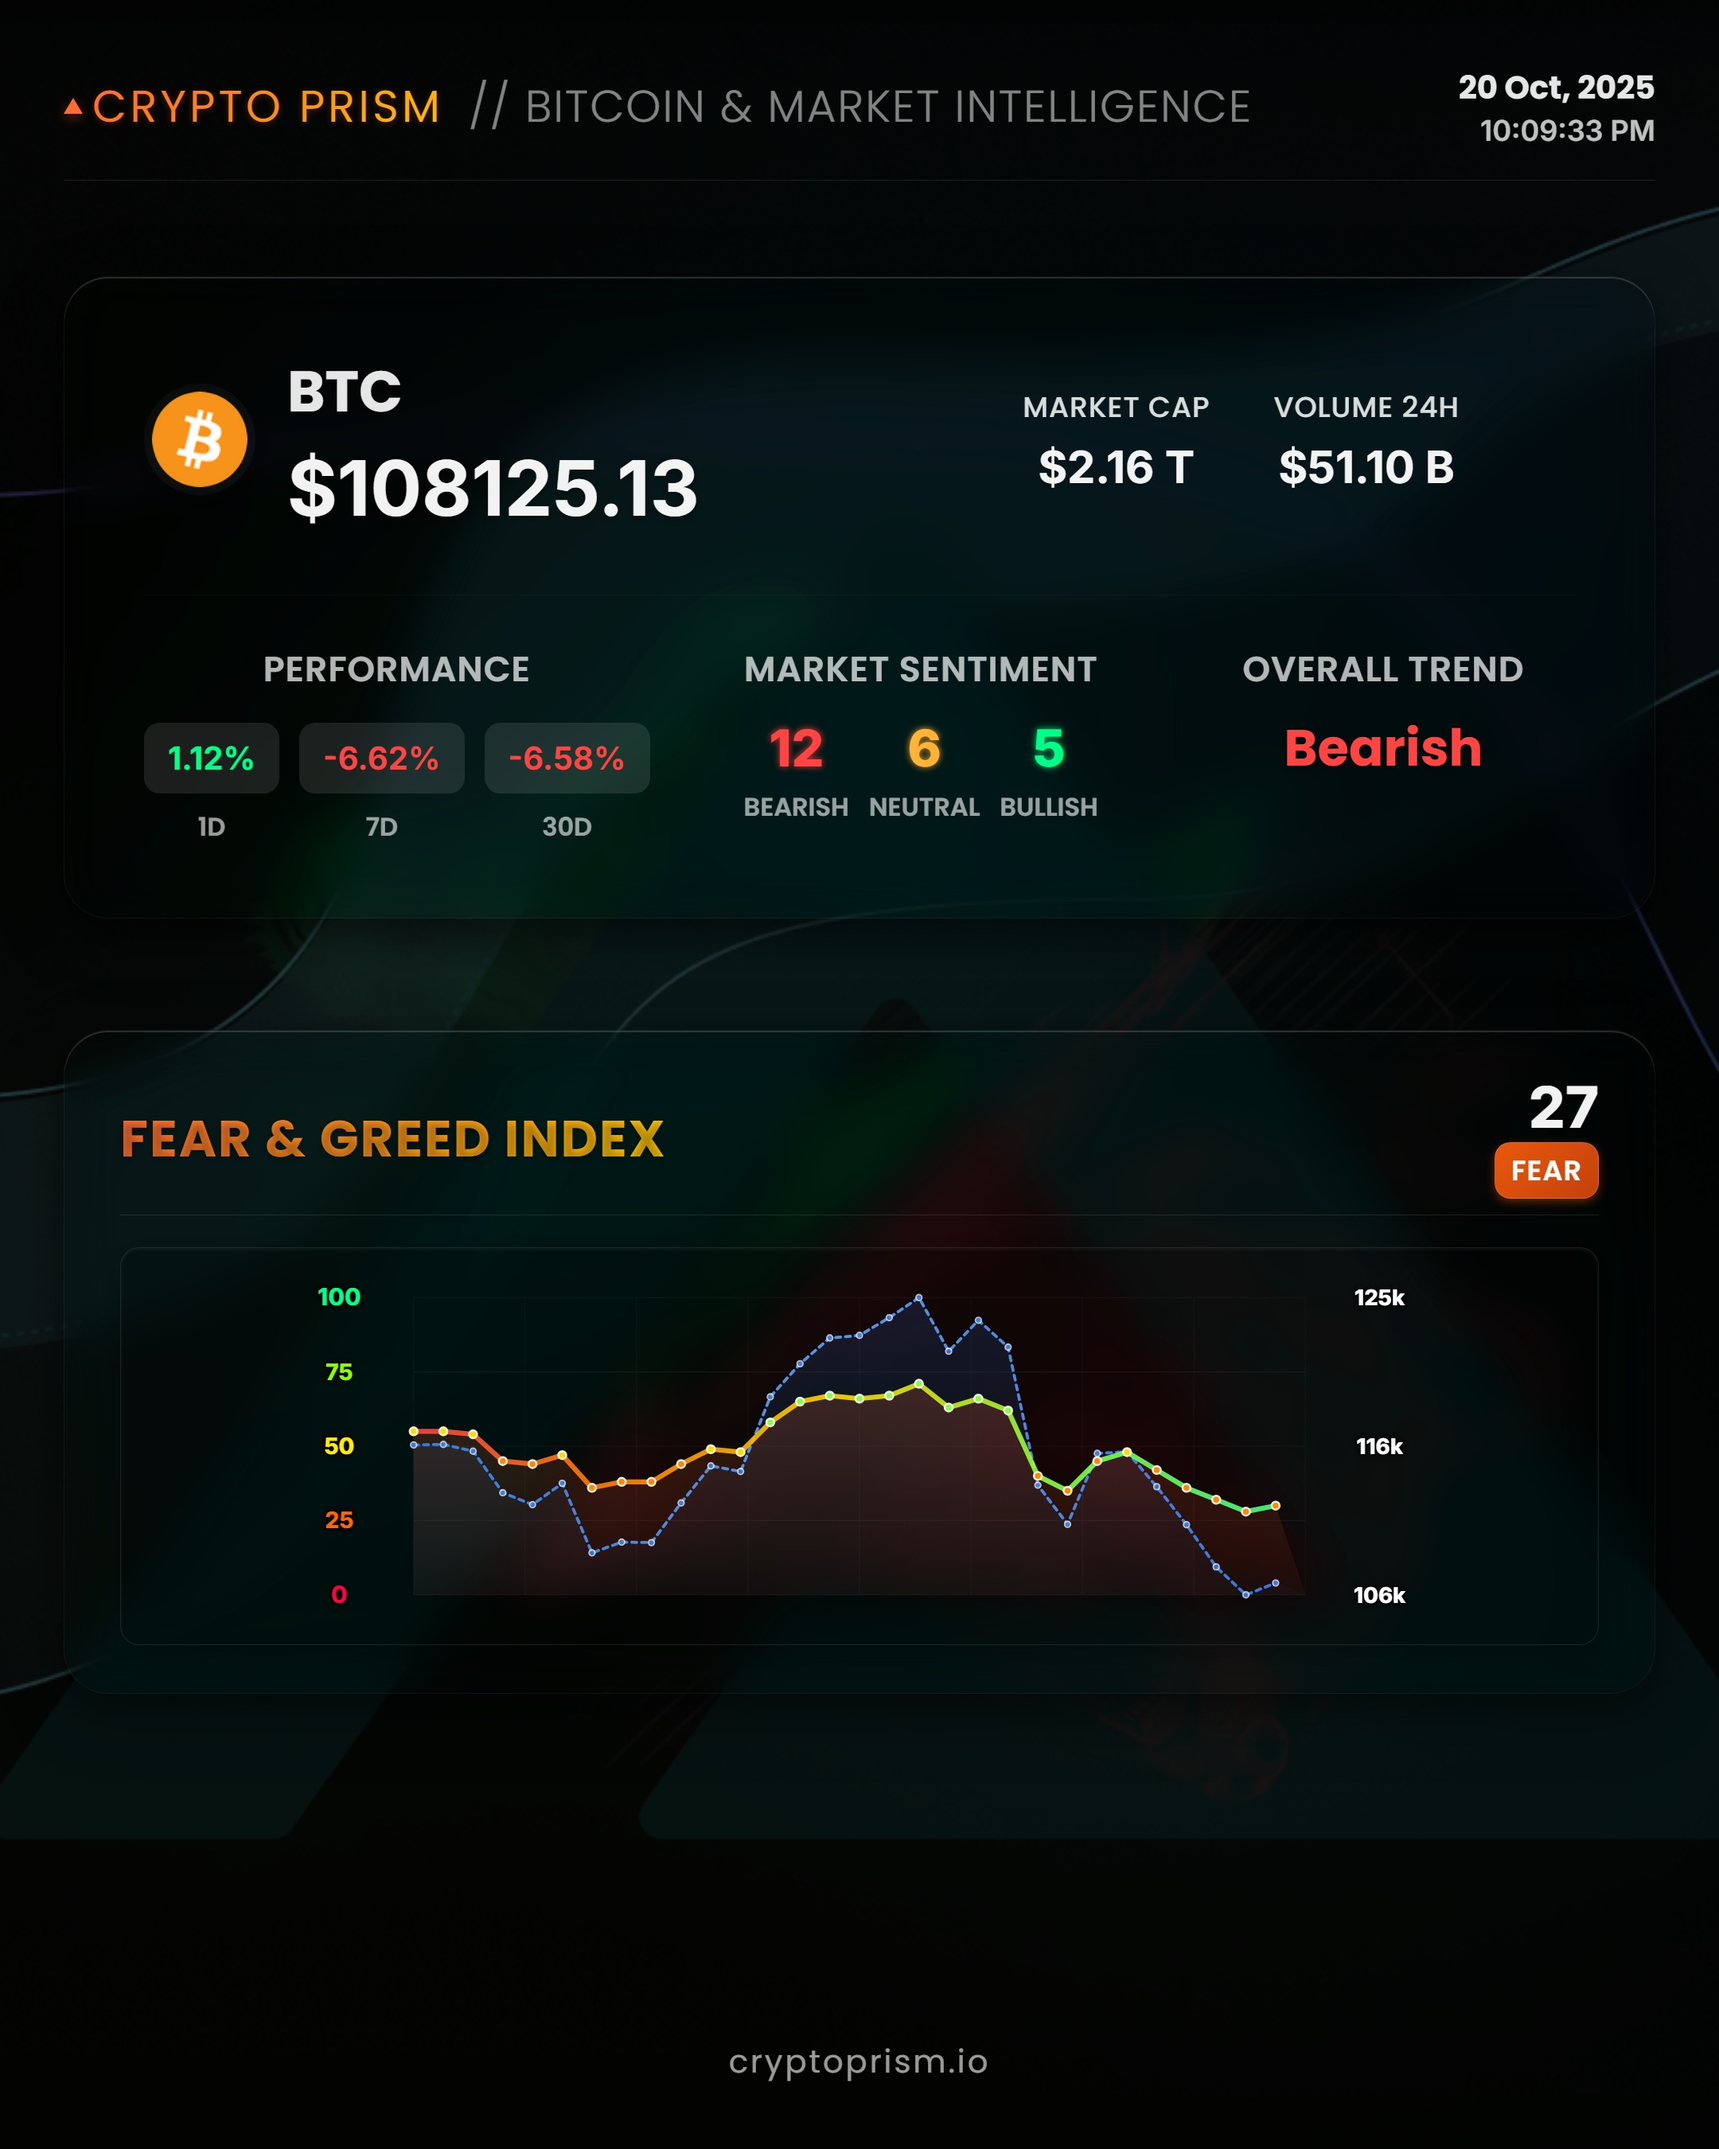
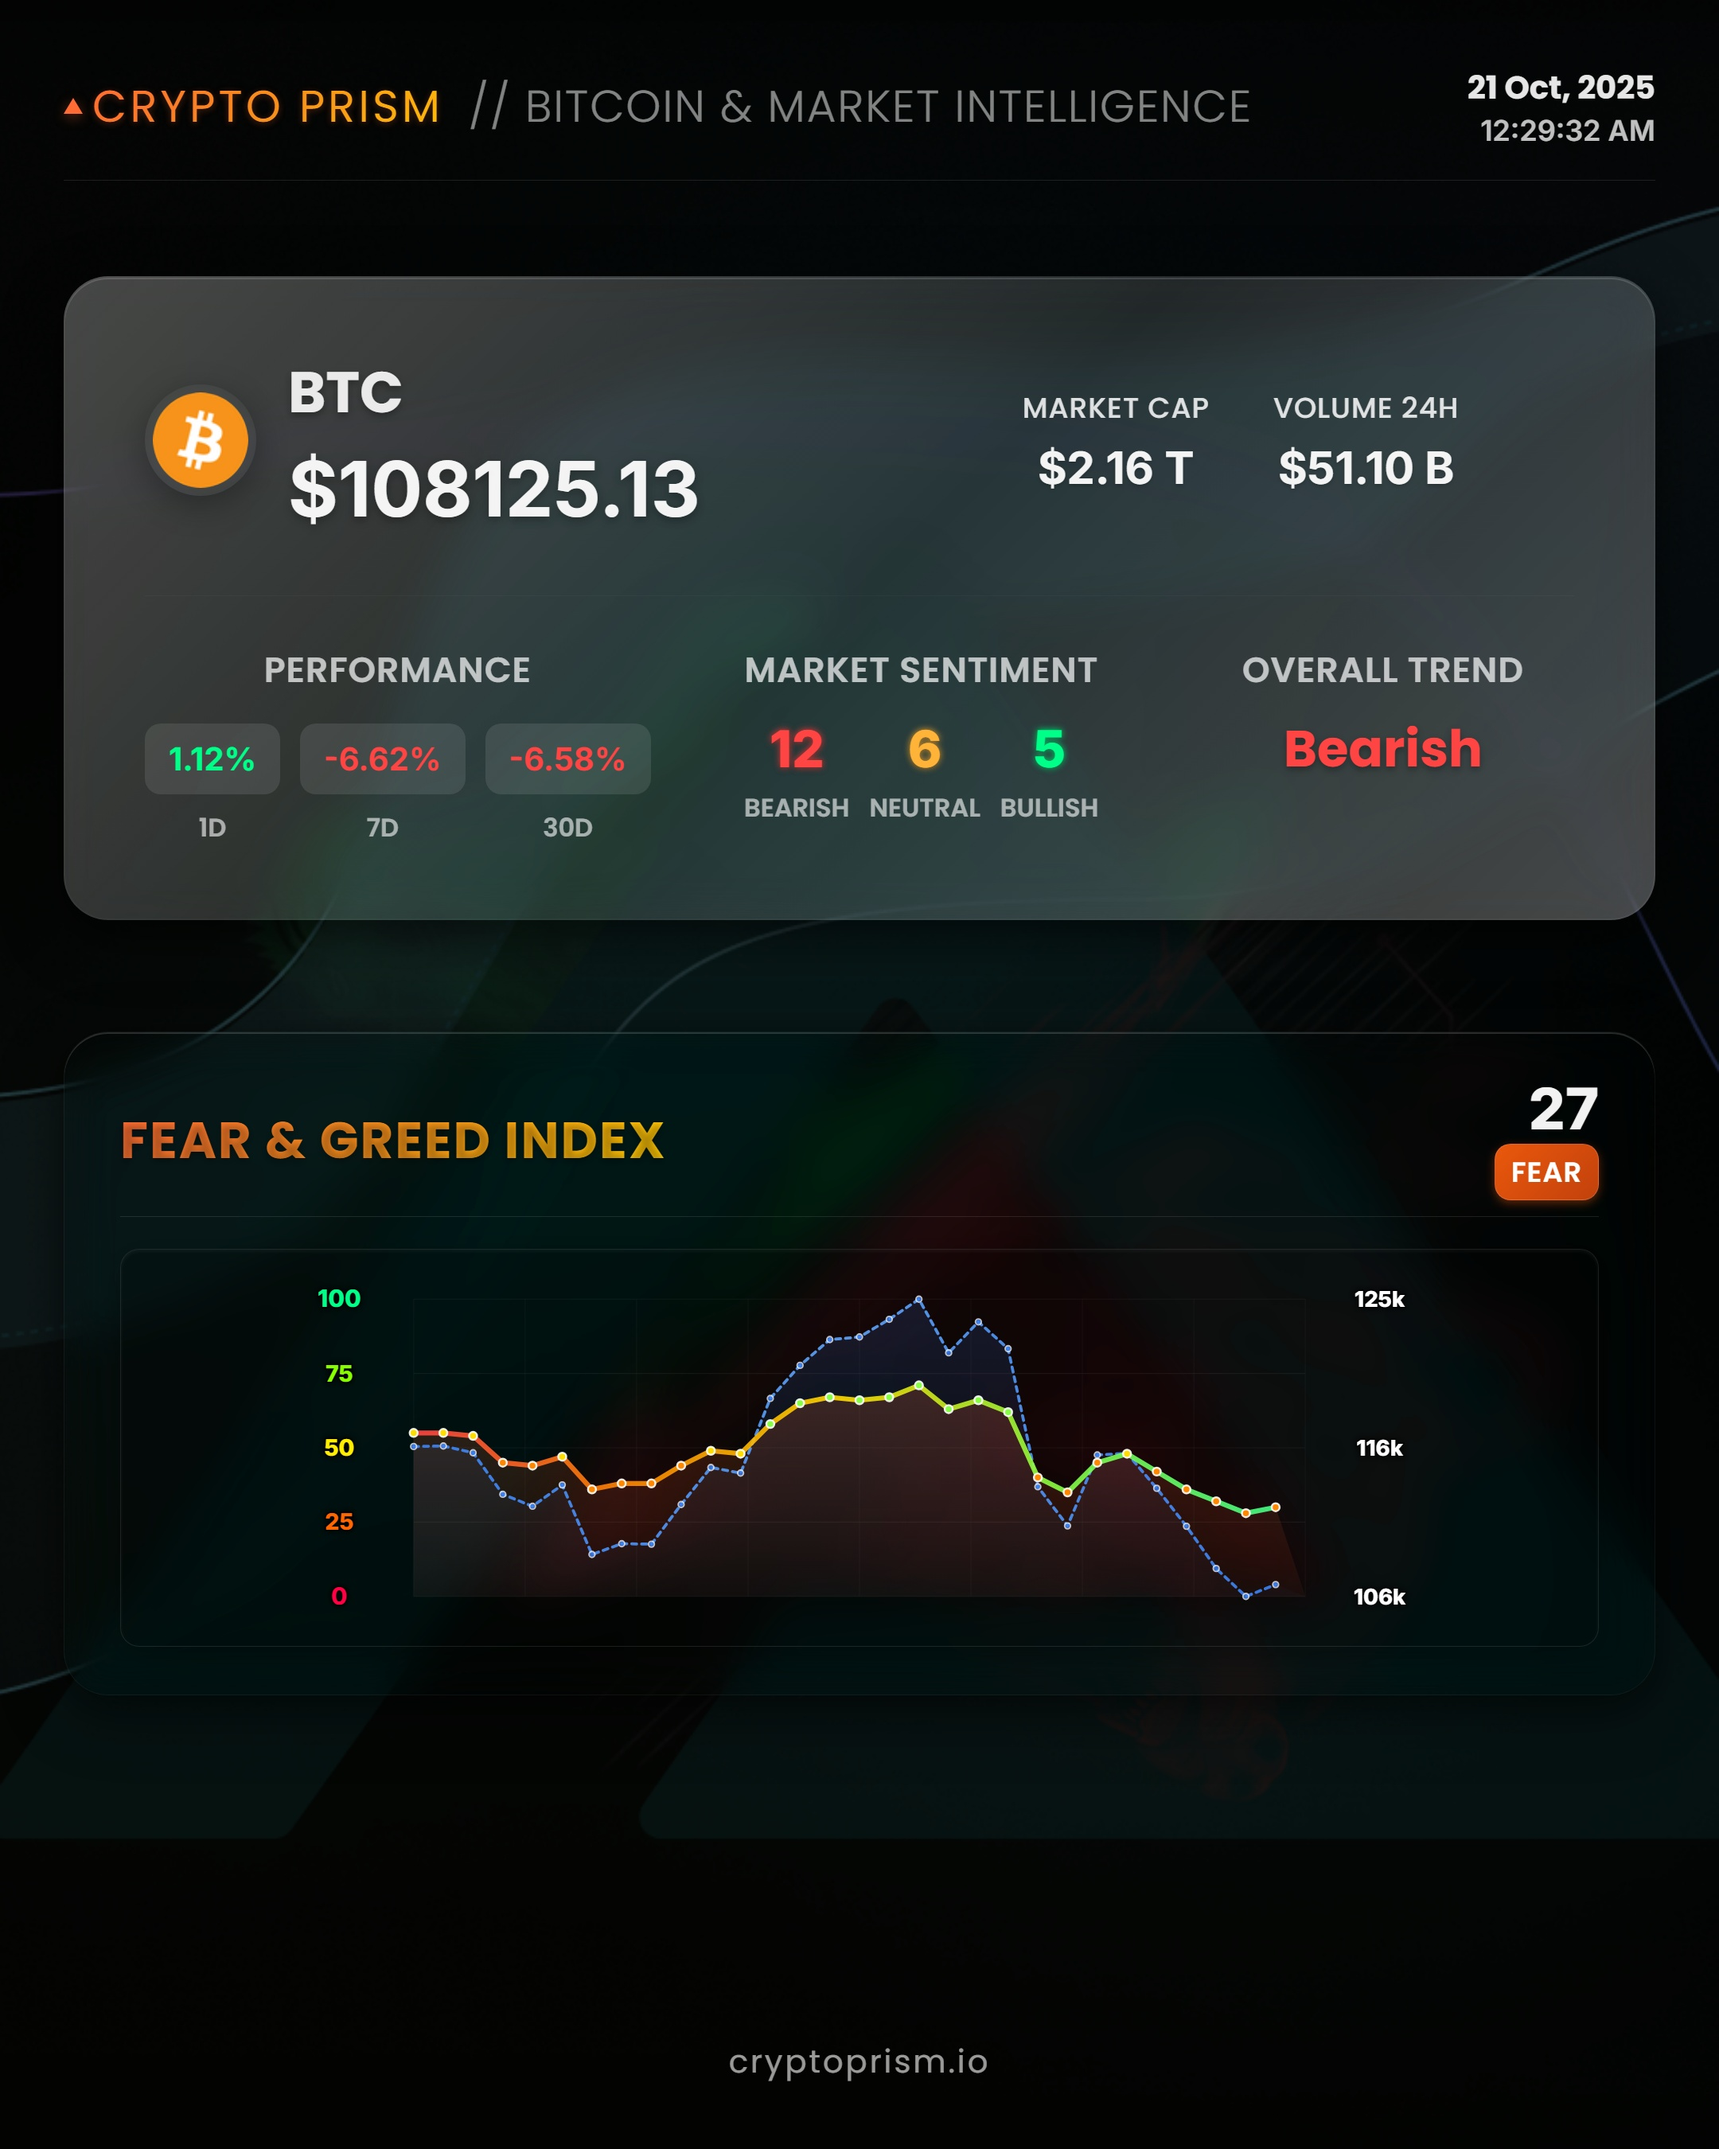
feat: v2.3.4 - Enhanced card borders & vertical content centering
2-phase visual enhancement for content cards (slides 04, 06, 07, 09, 10, 12, 13):

PHASE 1 - Gradient White Borders:
- Replaced subtle 0.5px border with 2px gradient border (4x thicker)
- Gradient: rgba(255,255,255,0.3) → 0.15 → 0.3 (shimmer effect)
- Dual-background technique: padding-box + border-box
- Updated: style1.css, style2.css, style3.css, style4.css, style6.css
- Affects: .coin-card, .btc-dashboard-card

PHASE 2 - Vertical Content Centering:
- Added justify-content: center to .main-container
- Eliminates awkward empty space at bottom of slides
- Content now perfectly centered vertically
- Updated same 5 CSS files

Visual Impact:
- Borders now clearly visible (was almost invisible at 5% opacity)
- Elegant gradient shimmer complements glassmorphism
- Balanced layout with vertically centered content
- Professional polish with better card definition

Production: https://www.instagram.com/p/DQCsKE1gXL0/
Affected: Slides 04, 06-07, 09-10, 12-13 (7 slides)

🤖 Generated with [Claude Code](https://claude.com/claude-code)

diff --git a/base_templates/style1.css b/base_templates/style1.css
@@ -56,6 +56,7 @@ body::before {
     padding: 60px;
     display: flex;
     flex-direction: column;
+    justify-content: center;
     gap: 50px;
     overflow: hidden;
     box-sizing: border-box;
@@ -391,11 +392,17 @@ body::before {
 
 /* 💎 Individual Coin Cards - Template 2 Style - Bitcoin Intelligence Glassmorphism */
 .coin-card {
-    background: rgba(0, 0, 0, 0.1);
+    border-radius: 56px;
+    border: 2px solid transparent;
+    background:
+        linear-gradient(rgba(0, 0, 0, 0.1), rgba(0, 0, 0, 0.1)) padding-box,
+        linear-gradient(135deg,
+            rgba(255, 255, 255, 0.3) 0%,
+            rgba(255, 255, 255, 0.15) 50%,
+            rgba(255, 255, 255, 0.3) 100%
+        ) border-box;
     backdrop-filter: blur(28px) saturate(180%);
     -webkit-backdrop-filter: blur(28px) saturate(180%);
-    border-radius: 56px;
-    border: 0.5px solid rgba(255, 255, 255, 0.05);
 
     box-shadow:
         0 24px 80px rgba(0, 0, 0, 0.4),

diff --git a/base_templates/style2.css b/base_templates/style2.css
@@ -56,6 +56,7 @@ body::before {
     padding: 60px;
     display: flex;
     flex-direction: column;
+    justify-content: center;
     gap: 50px;
     overflow: hidden;
     box-sizing: border-box;
@@ -391,11 +392,17 @@ body::before {
 
 /* 💎 Individual Coin Cards - Template 2 Style - Bitcoin Intelligence Glassmorphism */
 .coin-card {
-    background: rgba(0, 0, 0, 0.1);
+    border-radius: 56px;
+    border: 2px solid transparent;
+    background:
+        linear-gradient(rgba(0, 0, 0, 0.1), rgba(0, 0, 0, 0.1)) padding-box,
+        linear-gradient(135deg,
+            rgba(255, 255, 255, 0.3) 0%,
+            rgba(255, 255, 255, 0.15) 50%,
+            rgba(255, 255, 255, 0.3) 100%
+        ) border-box;
     backdrop-filter: blur(28px) saturate(180%);
     -webkit-backdrop-filter: blur(28px) saturate(180%);
-    border-radius: 56px;
-    border: 0.5px solid rgba(255, 255, 255, 0.05);
 
     box-shadow:
         0 24px 80px rgba(0, 0, 0, 0.4),

diff --git a/output_html/style1.css b/output_html/style1.css
@@ -56,6 +56,7 @@ body::before {
     padding: 60px;
     display: flex;
     flex-direction: column;
+    justify-content: center;
     gap: 50px;
     overflow: hidden;
     box-sizing: border-box;
@@ -391,11 +392,17 @@ body::before {
 
 /* 💎 Individual Coin Cards - Template 2 Style - Bitcoin Intelligence Glassmorphism */
 .coin-card {
-    background: rgba(0, 0, 0, 0.1);
+    border-radius: 56px;
+    border: 2px solid transparent;
+    background:
+        linear-gradient(rgba(0, 0, 0, 0.1), rgba(0, 0, 0, 0.1)) padding-box,
+        linear-gradient(135deg,
+            rgba(255, 255, 255, 0.3) 0%,
+            rgba(255, 255, 255, 0.15) 50%,
+            rgba(255, 255, 255, 0.3) 100%
+        ) border-box;
     backdrop-filter: blur(28px) saturate(180%);
     -webkit-backdrop-filter: blur(28px) saturate(180%);
-    border-radius: 56px;
-    border: 0.5px solid rgba(255, 255, 255, 0.05);
 
     box-shadow:
         0 24px 80px rgba(0, 0, 0, 0.4),

diff --git a/output_html/style2.css b/output_html/style2.css
@@ -56,6 +56,7 @@ body::before {
     padding: 60px;
     display: flex;
     flex-direction: column;
+    justify-content: center;
     gap: 50px;
     overflow: hidden;
     box-sizing: border-box;
@@ -391,11 +392,17 @@ body::before {
 
 /* 💎 Individual Coin Cards - Template 2 Style - Bitcoin Intelligence Glassmorphism */
 .coin-card {
-    background: rgba(0, 0, 0, 0.1);
+    border-radius: 56px;
+    border: 2px solid transparent;
+    background:
+        linear-gradient(rgba(0, 0, 0, 0.1), rgba(0, 0, 0, 0.1)) padding-box,
+        linear-gradient(135deg,
+            rgba(255, 255, 255, 0.3) 0%,
+            rgba(255, 255, 255, 0.15) 50%,
+            rgba(255, 255, 255, 0.3) 100%
+        ) border-box;
     backdrop-filter: blur(28px) saturate(180%);
     -webkit-backdrop-filter: blur(28px) saturate(180%);
-    border-radius: 56px;
-    border: 0.5px solid rgba(255, 255, 255, 0.05);
 
     box-shadow:
         0 24px 80px rgba(0, 0, 0, 0.4),

diff --git a/base_templates/style3.css b/base_templates/style3.css
@@ -55,6 +55,7 @@ body::before {
     padding: 60px;
     display: flex;
     flex-direction: column;
+    justify-content: center;
     gap: 50px;
     overflow: hidden;
     box-sizing: border-box;
@@ -409,11 +410,17 @@ body::before {
 
 /* 💎 Enhanced Coin Cards for Template 3 - Bitcoin Intelligence Glassmorphism */
 .coin-card {
-    background: rgba(0, 0, 0, 0.1);
+    border-radius: 56px;
+    border: 2px solid transparent;
+    background:
+        linear-gradient(rgba(0, 0, 0, 0.1), rgba(0, 0, 0, 0.1)) padding-box,
+        linear-gradient(135deg,
+            rgba(255, 255, 255, 0.3) 0%,
+            rgba(255, 255, 255, 0.15) 50%,
+            rgba(255, 255, 255, 0.3) 100%
+        ) border-box;
     backdrop-filter: blur(28px) saturate(180%);
     -webkit-backdrop-filter: blur(28px) saturate(180%);
-    border-radius: 56px;
-    border: 0.5px solid rgba(255, 255, 255, 0.05);
 
     box-shadow:
         0 24px 80px rgba(0, 0, 0, 0.4),

diff --git a/output_html/style3.css b/output_html/style3.css
@@ -55,6 +55,7 @@ body::before {
     padding: 60px;
     display: flex;
     flex-direction: column;
+    justify-content: center;
     gap: 50px;
     overflow: hidden;
     box-sizing: border-box;
@@ -409,11 +410,17 @@ body::before {
 
 /* 💎 Enhanced Coin Cards for Template 3 - Bitcoin Intelligence Glassmorphism */
 .coin-card {
-    background: rgba(0, 0, 0, 0.1);
+    border-radius: 56px;
+    border: 2px solid transparent;
+    background:
+        linear-gradient(rgba(0, 0, 0, 0.1), rgba(0, 0, 0, 0.1)) padding-box,
+        linear-gradient(135deg,
+            rgba(255, 255, 255, 0.3) 0%,
+            rgba(255, 255, 255, 0.15) 50%,
+            rgba(255, 255, 255, 0.3) 100%
+        ) border-box;
     backdrop-filter: blur(28px) saturate(180%);
     -webkit-backdrop-filter: blur(28px) saturate(180%);
-    border-radius: 56px;
-    border: 0.5px solid rgba(255, 255, 255, 0.05);
 
     box-shadow:
         0 24px 80px rgba(0, 0, 0, 0.4),

diff --git a/base_templates/style4.css b/base_templates/style4.css
@@ -55,6 +55,7 @@ body::before {
     padding: 60px;
     display: flex;
     flex-direction: column;
+    justify-content: center;
     gap: 50px;
     overflow: hidden;
     box-sizing: border-box;
@@ -376,11 +377,17 @@ body::before {
 
 /* 🏆 Coin Cards - Bitcoin Intelligence Glassmorphism */
 .coin-card {
-    background: rgba(0, 0, 0, 0.1);
+    border-radius: 56px;
+    border: 2px solid transparent;
+    background:
+        linear-gradient(rgba(0, 0, 0, 0.1), rgba(0, 0, 0, 0.1)) padding-box,
+        linear-gradient(135deg,
+            rgba(255, 255, 255, 0.3) 0%,
+            rgba(255, 255, 255, 0.15) 50%,
+            rgba(255, 255, 255, 0.3) 100%
+        ) border-box;
     backdrop-filter: blur(28px) saturate(180%);
     -webkit-backdrop-filter: blur(28px) saturate(180%);
-    border-radius: 56px;
-    border: 0.5px solid rgba(255, 255, 255, 0.05);
 
     box-shadow:
         0 24px 80px rgba(0, 0, 0, 0.4),

diff --git a/output_html/style4.css b/output_html/style4.css
@@ -55,6 +55,7 @@ body::before {
     padding: 60px;
     display: flex;
     flex-direction: column;
+    justify-content: center;
     gap: 50px;
     overflow: hidden;
     box-sizing: border-box;
@@ -376,11 +377,17 @@ body::before {
 
 /* 🏆 Coin Cards - Bitcoin Intelligence Glassmorphism */
 .coin-card {
-    background: rgba(0, 0, 0, 0.1);
+    border-radius: 56px;
+    border: 2px solid transparent;
+    background:
+        linear-gradient(rgba(0, 0, 0, 0.1), rgba(0, 0, 0, 0.1)) padding-box,
+        linear-gradient(135deg,
+            rgba(255, 255, 255, 0.3) 0%,
+            rgba(255, 255, 255, 0.15) 50%,
+            rgba(255, 255, 255, 0.3) 100%
+        ) border-box;
     backdrop-filter: blur(28px) saturate(180%);
     -webkit-backdrop-filter: blur(28px) saturate(180%);
-    border-radius: 56px;
-    border: 0.5px solid rgba(255, 255, 255, 0.05);
 
     box-shadow:
         0 24px 80px rgba(0, 0, 0, 0.4),

diff --git a/base_templates/style6.css b/base_templates/style6.css
@@ -54,6 +54,7 @@ body::before {
     padding: 80px;
     display: flex;
     flex-direction: column;
+    justify-content: center;
     gap: 100px;
     overflow: hidden;
     box-sizing: border-box;
@@ -63,11 +64,17 @@ body::before {
 
 /* 🚀 Bitcoin Dashboard Card */
 .btc-dashboard-card {
-    background: rgba(0, 0, 0, 0.1);
+    border-radius: 56px;
+    border: 2px solid transparent;
+    background:
+        linear-gradient(rgba(0, 0, 0, 0.1), rgba(0, 0, 0, 0.1)) padding-box,
+        linear-gradient(135deg,
+            rgba(255, 255, 255, 0.3) 0%,
+            rgba(255, 255, 255, 0.15) 50%,
+            rgba(255, 255, 255, 0.3) 100%
+        ) border-box;
     backdrop-filter: blur(28px) saturate(180%);
     -webkit-backdrop-filter: blur(28px) saturate(180%);
-    border-radius: 56px;
-    border: 0.5px solid rgba(255, 255, 255, 0.05);
 
     box-shadow:
         0 24px 80px rgba(0, 0, 0, 0.4),

diff --git a/output_html/style6.css b/output_html/style6.css
@@ -54,6 +54,7 @@ body::before {
     padding: 80px;
     display: flex;
     flex-direction: column;
+    justify-content: center;
     gap: 100px;
     overflow: hidden;
     box-sizing: border-box;
@@ -63,11 +64,17 @@ body::before {
 
 /* 🚀 Bitcoin Dashboard Card */
 .btc-dashboard-card {
-    background: rgba(0, 0, 0, 0.1);
+    border-radius: 56px;
+    border: 2px solid transparent;
+    background:
+        linear-gradient(rgba(0, 0, 0, 0.1), rgba(0, 0, 0, 0.1)) padding-box,
+        linear-gradient(135deg,
+            rgba(255, 255, 255, 0.3) 0%,
+            rgba(255, 255, 255, 0.15) 50%,
+            rgba(255, 255, 255, 0.3) 100%
+        ) border-box;
     backdrop-filter: blur(28px) saturate(180%);
     -webkit-backdrop-filter: blur(28px) saturate(180%);
-    border-radius: 56px;
-    border: 0.5px solid rgba(255, 255, 255, 0.05);
 
     box-shadow:
         0 24px 80px rgba(0, 0, 0, 0.4),

diff --git a/output_html/01_cover_output.html b/output_html/01_cover_output.html
@@ -19,7 +19,7 @@
             </div>
             <div class="last-update">
                 <div class="last-update-label">LIVE</div>
-                <div class="last-update-time">10:08:51 PM</div>
+                <div class="last-update-time">12:28:48 AM</div>
             </div>
         </div>
 
@@ -31,7 +31,7 @@
             </div>
 
             <!-- Date Display -->
-            <div class="cover-date">20 Oct, 2025</div>
+            <div class="cover-date">21 Oct, 2025</div>
 
             <!-- Subtitle with Dynamic Sentiment -->
             <div class="cover-subtitle">

diff --git a/output_html/04_bitcoin_intelligence_output.html b/output_html/04_bitcoin_intelligence_output.html
@@ -18,8 +18,8 @@
                 <span class="page-title-text">// BITCOIN & MARKET INTELLIGENCE</span>
             </div>
             <div class="last-update">
-                <div class="last-update-date">20 Oct, 2025</div>
-                <div class="last-update-time">10:09:33 PM</div>
+                <div class="last-update-date">21 Oct, 2025</div>
+                <div class="last-update-time">12:29:32 AM</div>
             </div>
         </div>
 
